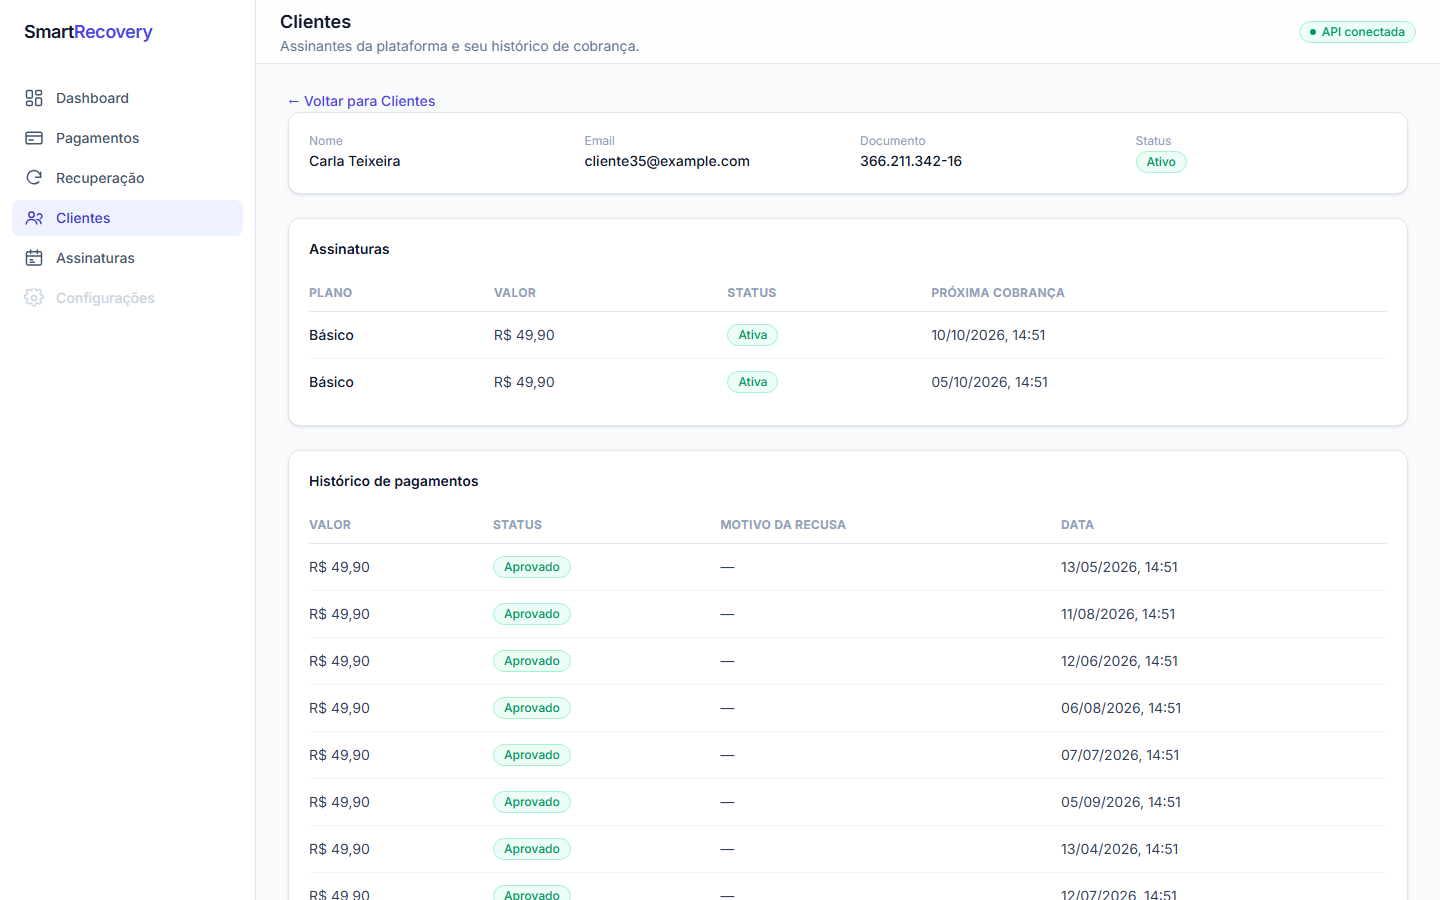
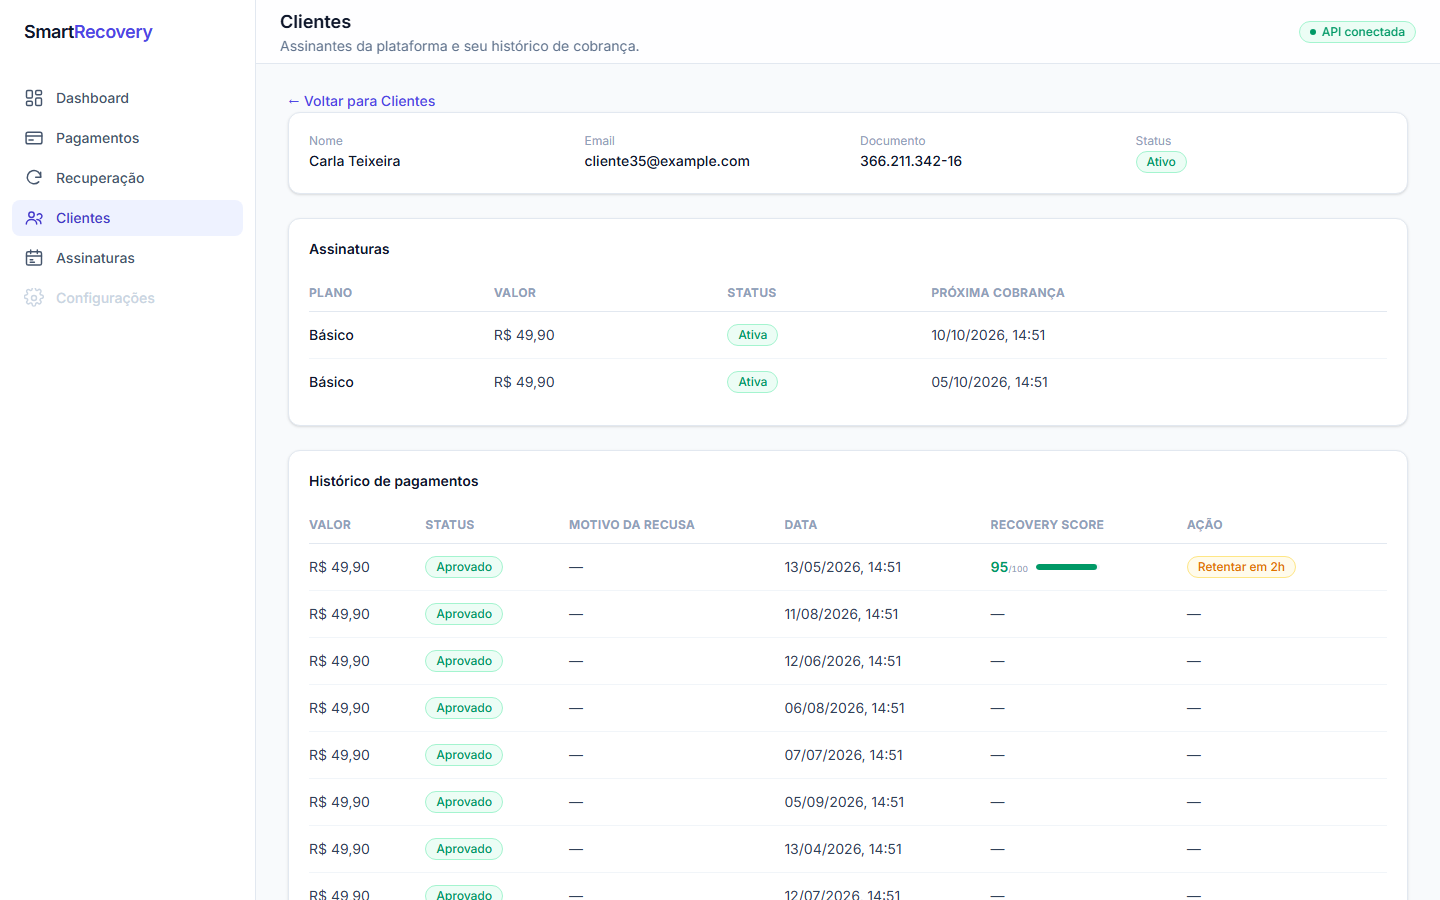
libera cors para o frontend e swagger

diff --git a/frontend/src/pages/CustomerDetailPage.tsx b/frontend/src/pages/CustomerDetailPage.tsx
@@ -11,9 +11,11 @@ import { ScoreIndicator } from '@/components/ui/ScoreIndicator'
 import { useCustomerDetail } from '@/hooks/useCustomerDetail'
 import { formatCurrency, formatDateTime } from '@/lib/format'
 import { declineReasonLabel } from '@/lib/labels'
+import type { RecoveryAnalysis } from '@/types/recovery'
 import type { Payment } from '@/types/payment'
 import type { Subscription } from '@/types/subscription'
 import type { ReactNode } from 'react'
+import { useMemo } from 'react'
 import { Link, useParams } from 'react-router-dom'
 
 const subscriptionColumns: DataTableColumn<Subscription>[] = [
@@ -23,21 +25,50 @@ const subscriptionColumns: DataTableColumn<Subscription>[] = [
   { key: 'nextBilling', header: 'Próxima cobrança', render: (row) => formatDateTime(row.nextBillingDate) },
 ]
 
-const paymentColumns: DataTableColumn<Payment>[] = [
-  { key: 'amount', header: 'Valor', render: (row) => formatCurrency(row.amount) },
-  { key: 'status', header: 'Status', render: (row) => <StatusBadge status={row.status} /> },
-  { key: 'declineReason', header: 'Motivo da recusa', render: (row) => declineReasonLabel(row.declineReason) },
-  { key: 'date', header: 'Data', render: (row) => formatDateTime(row.createdAt) },
-]
+/**
+ * Score/Ação vêm de recoveryByPaymentId (só existe para pagamentos já recusados alguma vez) — em vez de
+ * uma seção "Histórico de recuperação" separada repetindo valor/motivo/data que já estão aqui.
+ */
+function buildPaymentColumns(recoveryByPaymentId: Map<string, RecoveryAnalysis>): DataTableColumn<Payment>[] {
+  return [
+    { key: 'amount', header: 'Valor', render: (row) => formatCurrency(row.amount) },
+    { key: 'status', header: 'Status', render: (row) => <StatusBadge status={row.status} /> },
+    { key: 'declineReason', header: 'Motivo da recusa', render: (row) => declineReasonLabel(row.declineReason) },
+    { key: 'date', header: 'Data', render: (row) => formatDateTime(row.createdAt) },
+    {
+      key: 'recoveryScore',
+      header: 'Recovery Score',
+      render: (row) => {
+        const analysis = recoveryByPaymentId.get(row.id)
+        return analysis ? <ScoreIndicator score={analysis.recoveryScore} /> : '—'
+      },
+    },
+    {
+      key: 'recommendedAction',
+      header: 'Ação',
+      render: (row) => {
+        const analysis = recoveryByPaymentId.get(row.id)
+        return analysis ? <RecoveryActionBadge action={analysis.recommendedAction} /> : '—'
+      },
+    },
+  ]
+}
 
 export function CustomerDetailPage() {
   const { id } = useParams<{ id: string }>()
   const state = useCustomerDetail(id ?? '')
 
+  const recoveryByPaymentId = useMemo(() => {
+    if (state.status !== 'success') return new Map<string, RecoveryAnalysis>()
+    return new Map(state.data.recoveryHistory.map(({ payment, analysis }) => [payment.id, analysis]))
+  }, [state])
+
+  const paymentColumns = useMemo(() => buildPaymentColumns(recoveryByPaymentId), [recoveryByPaymentId])
+
   if (state.status === 'loading') return <LoadingState label="Carregando cliente…" />
   if (state.status === 'error') return <ErrorState message={state.error} onRetry={state.refetch} />
 
-  const { customer, subscriptions, payments, recoveryHistory } = state.data
+  const { customer, subscriptions, payments } = state.data
 
   return (
     <div className="space-y-6">
@@ -75,35 +106,6 @@ export function CustomerDetailPage() {
         )}
       </Card>
 
-      <Card>
-        <h2 className="mb-4 text-sm font-semibold text-slate-900">Histórico de recuperação</h2>
-        {recoveryHistory.length === 0 ? (
-          <EmptyState
-            title="Nenhuma recuperação registrada"
-            description="Este cliente nunca teve um pagamento recusado."
-          />
-        ) : (
-          <div className="space-y-3">
-            {recoveryHistory.map(({ payment, analysis }) => (
-              <div
-                key={analysis.id}
-                className="flex flex-col gap-4 rounded-lg border border-slate-100 p-4 sm:flex-row sm:items-center sm:justify-between"
-              >
-                <div>
-                  <p className="text-sm font-medium text-slate-900">{formatCurrency(payment.amount)}</p>
-                  <p className="mt-0.5 text-sm text-slate-500">
-                    {declineReasonLabel(payment.declineReason)} · Analisado em {formatDateTime(analysis.analyzedAt)}
-                  </p>
-                </div>
-                <div className="flex flex-wrap items-center gap-4 sm:gap-6">
-                  <ScoreIndicator score={analysis.recoveryScore} />
-                  <RecoveryActionBadge action={analysis.recommendedAction} />
-                </div>
-              </div>
-            ))}
-          </div>
-        )}
-      </Card>
     </div>
   )
 }

diff --git a/frontend/src/components/DashboardSummarySection.tsx b/frontend/src/components/DashboardSummarySection.tsx
@@ -1,4 +1,4 @@
-import { AlertIcon, CheckCircleIcon, PaymentsIcon, RecoveryIcon } from '@/components/icons'
+import { AlertIcon, CheckCircleIcon, RecoveryIcon } from '@/components/icons'
 import { KpiCard } from '@/components/KpiCard'
 import { PaymentsBreakdownChart } from '@/components/PaymentsBreakdownChart'
 import { Card } from '@/components/ui/Card'
@@ -20,18 +20,14 @@ export function DashboardSummarySection({ state }: DashboardSummarySectionProps)
 
   return (
     <div className="space-y-6">
-      <div className="grid grid-cols-1 gap-4 sm:grid-cols-2 lg:grid-cols-4">
+      {/* "Pagamentos recusados" não vira KPI aqui de propósito — o gráfico logo abaixo já mostra
+          essa contagem com percentual, um KPI repetindo o mesmo número não agregaria nada. */}
+      <div className="grid grid-cols-1 gap-4 sm:grid-cols-3">
         <KpiCard
           label="Recovery Rate"
           value={formatPercent(summary.recoveryRate)}
           tone="attention"
           icon={RecoveryIcon}
-        />
-        <KpiCard
-          label="Pagamentos recusados"
-          value={String(summary.declinedPayments)}
-          tone="declined"
-          icon={PaymentsIcon}
         />
         <KpiCard
           label="Ações pendentes"

diff --git a/frontend/src/hooks/useCustomerDetail.ts b/frontend/src/hooks/useCustomerDetail.ts
@@ -12,8 +12,10 @@ async function fetchCustomerDetail(customerId: string): Promise<CustomerDetail> 
     getPaymentsByCustomer(customerId),
   ])
 
-  // Histórico de recuperação só existe para pagamentos que já foram recusados alguma vez.
-  const declinedPayments = payments.filter((payment) => payment.declineReason !== null)
+  // Histórico de recuperação existe para qualquer pagamento já recusado alguma vez — inclui tanto
+  // os que seguem recusados (declineReason ainda preenchido) quanto os recuperados por retry depois
+  // (declineReason já foi limpo ao aprovar, mas attemptCount > 1 denuncia que houve recusa antes).
+  const declinedPayments = payments.filter((payment) => payment.declineReason !== null || payment.attemptCount > 1)
   const analyses = await Promise.all(declinedPayments.map((payment) => getRecoveryAnalysisByPayment(payment.id)))
 
   const recoveryHistory: RecoveryHistoryEntry[] = declinedPayments

diff --git a/frontend/src/layouts/AppLayout.tsx b/frontend/src/layouts/AppLayout.tsx
@@ -1,10 +1,11 @@
 import { Header } from '@/components/Header'
 import { Sidebar } from '@/components/Sidebar'
 import { useState } from 'react'
-import { Outlet } from 'react-router-dom'
+import { Outlet, useLocation } from 'react-router-dom'
 
 export function AppLayout() {
   const [mobileNavOpen, setMobileNavOpen] = useState(false)
+  const { pathname } = useLocation()
 
   return (
     <div className="flex min-h-screen bg-slate-50">
@@ -14,7 +15,10 @@ export function AppLayout() {
         <Header onOpenMenu={() => setMobileNavOpen(true)} />
 
         <main className="flex-1 px-4 py-6 sm:px-6 lg:px-8">
-          <Outlet />
+          {/* key={pathname} força o React a remontar o conteúdo a cada rota, reiniciando a animação de entrada. */}
+          <div key={pathname} className="animate-page-in">
+            <Outlet />
+          </div>
         </main>
       </div>
     </div>

diff --git a/frontend/src/hooks/usePayments.ts b/frontend/src/hooks/usePayments.ts
@@ -23,7 +23,9 @@ async function fetchPayments(page: number, pageSize: number, filters: PaymentsFi
 
   const items = await Promise.all(
     result.items.map(async (item) => {
-      if (item.status !== 'Declined') return item
+      // O backend não inclui recoveryScore/recommendedAction no DTO de listagem — sem isso explícito
+      // aqui, o campo fica `undefined` (não `null`), e a checagem de exibição abaixo não pega esse caso.
+      if (item.status !== 'Declined') return { ...item, recoveryScore: null, recommendedAction: null }
 
       const analysis = await getRecoveryAnalysisByPayment(item.id)
       return {

diff --git a/frontend/src/services/paymentService.ts b/frontend/src/services/paymentService.ts
@@ -24,11 +24,7 @@ export async function getPaymentById(id: string): Promise<Payment> {
   return data
 }
 
-/**
- * Não existe um endpoint que liste todos os pagamentos da plataforma — só por
- * cliente. A listagem geral de Pagamentos é montada combinando esta chamada por
- * cliente com GET /api/customers (ver hooks/usePayments.ts).
- */
+/** Histórico de pagamentos de um cliente — usado na página de detalhe do cliente. */
 export async function getPaymentsByCustomer(customerId: string): Promise<Payment[]> {
   const { data } = await api.get<Payment[]>(`/api/payments/by-customer/${customerId}`)
   return data

diff --git a/frontend/src/components/ui/DataTable.tsx b/frontend/src/components/ui/DataTable.tsx
@@ -33,7 +33,7 @@ export function DataTable<T>({ columns, data, keyExtractor, onRowClick }: DataTa
             <tr
               key={keyExtractor(row)}
               onClick={onRowClick ? () => onRowClick(row) : undefined}
-              className={clsx('text-slate-700', onRowClick && 'cursor-pointer hover:bg-slate-50')}
+              className={clsx('text-slate-700 transition-colors', onRowClick && 'cursor-pointer hover:bg-slate-50')}
             >
               {columns.map((column) => (
                 <td key={column.key} className={clsx('py-3 pr-4', column.className)}>

diff --git a/frontend/src/components/ui/Card.tsx b/frontend/src/components/ui/Card.tsx
@@ -7,5 +7,14 @@ interface CardProps {
 }
 
 export function Card({ children, className }: CardProps) {
-  return <div className={clsx('rounded-xl border border-slate-200 bg-white p-5 shadow-sm', className)}>{children}</div>
+  return (
+    <div
+      className={clsx(
+        'rounded-xl border border-slate-200 bg-white p-5 shadow-sm transition-shadow duration-150 hover:shadow-md',
+        className,
+      )}
+    >
+      {children}
+    </div>
+  )
 }

diff --git a/frontend/src/index.css b/frontend/src/index.css
@@ -40,3 +40,19 @@
 body {
   @apply bg-slate-50 text-slate-900 antialiased;
 }
+
+@keyframes fade-in-up {
+  from {
+    opacity: 0;
+    transform: translateY(4px);
+  }
+  to {
+    opacity: 1;
+    transform: translateY(0);
+  }
+}
+
+/* Aplicada ao conteúdo principal a cada troca de rota (ver AppLayout) — só entrada, sem repetir em re-renders. */
+.animate-page-in {
+  animation: fade-in-up 0.2s ease-out;
+}

diff --git a/src/SmartRecovery.API/Program.cs b/src/SmartRecovery.API/Program.cs
@@ -58,7 +58,7 @@ builder.Services.AddCors(options =>
     options.AddPolicy("AllowFrontend", policy =>
     {
         policy
-            .WithOrigins("http://localhost:5173")
+            .AllowAnyOrigin()
             .AllowAnyHeader()
             .AllowAnyMethod();
     });
@@ -71,19 +71,22 @@ app.UseSerilogRequestLogging();
 // Precisa vir antes de tudo para capturar erros de qualquer parte do pipeline.
 app.UseExceptionHandler();
 
-if (app.Environment.IsDevelopment())
+// Habilita Swagger para fácil visualização e teste no portfólio
+app.UseSwagger();
+app.UseSwaggerUI(options =>
 {
-    app.UseSwagger();
-    app.UseSwaggerUI(options =>
-    {
-        options.SwaggerEndpoint("/swagger/v1/swagger.json", "Smart Recovery API v1");
-        options.RoutePrefix = string.Empty;
-        options.DocumentTitle = "Smart Recovery API";
-    });
-}
+    options.SwaggerEndpoint("/swagger/v1/swagger.json", "Smart Recovery API v1");
+    options.RoutePrefix = string.Empty;
+    options.DocumentTitle = "Smart Recovery API";
+});
 
 app.UseCors("AllowFrontend");
-app.UseHttpsRedirection();
+
+if (app.Environment.IsDevelopment())
+{
+    app.UseHttpsRedirection();
+}
+
 app.UseAuthorization();
 app.MapControllers();
 

diff --git a/README.md b/README.md
@@ -41,7 +41,7 @@ duplicada no frontend. O backend é a única fonte da verdade.
 - **Dashboard**: KPIs (recovery rate, receita recuperada, ações pendentes), distribuição de pagamentos, tendência diária de aprovados/recusados, motivos de recusa mais comuns.
 - **Pagamentos**: listagem paginada com filtros (status, motivo, cliente, período), detalhe com linha do tempo completa e breakdown do Recovery Score.
 - **Recuperação**: fila de oportunidades pendentes ordenável por impacto financeiro, score ou ação, com resumo de receita em risco.
-- **Clientes**: listagem paginada com busca, detalhe com histórico de pagamentos e recuperações.
+- **Clientes**: listagem paginada com busca, detalhe com histórico de pagamentos (Recovery Score e ação inline para os que já foram recusados).
 - **Assinaturas**: listagem paginada filtrável por status, com próxima data de cobrança.
 - **Webhooks**: endpoint idempotente para receber resultado de cobranças de um provedor externo (simulado).
 
@@ -141,21 +141,25 @@ API em `http://localhost:5000` (Swagger em `/`), frontend em `http://localhost:5
 
 ## Screenshots
 
-| Dashboard | Recuperação |
-|---|---|
-| ![Dashboard](docs/screenshots/dashboard.png) | ![Recuperação](docs/screenshots/recovery.png) |
+O Dashboard já aparece no topo deste README. Abaixo, o restante do fluxo:
 
-| Pagamentos | Detalhe do pagamento |
-|---|---|
-| ![Pagamentos](docs/screenshots/payments.png) | ![Detalhe do pagamento](docs/screenshots/payment-detail.png) |
+**Pagamentos** — listagem paginada e filtrável, com Recovery Score inline para os recusados.
+![Pagamentos](docs/screenshots/payments.png)
 
-| Clientes | Detalhe do cliente |
-|---|---|
-| ![Clientes](docs/screenshots/customers.png) | ![Detalhe do cliente](docs/screenshots/customer-detail.png) |
+**Detalhe do pagamento** — linha do tempo completa e breakdown do Recovery Score.
+![Detalhe do pagamento](docs/screenshots/payment-detail.png)
 
-| Assinaturas |
-|---|
-| ![Assinaturas](docs/screenshots/subscriptions.png) |
+**Recuperação** — fila de oportunidades pendentes ordenada por impacto financeiro.
+![Recuperação](docs/screenshots/recovery.png)
+
+**Clientes** — busca e histórico de pagamentos/recuperação por cliente.
+![Clientes](docs/screenshots/customers.png)
+
+**Detalhe do cliente** — histórico de pagamentos com Recovery Score e ação, quando aplicável.
+![Detalhe do cliente](docs/screenshots/customer-detail.png)
+
+**Assinaturas** — plano, periodicidade e próxima cobrança.
+![Assinaturas](docs/screenshots/subscriptions.png)
 
 ## Limitações conhecidas
 
